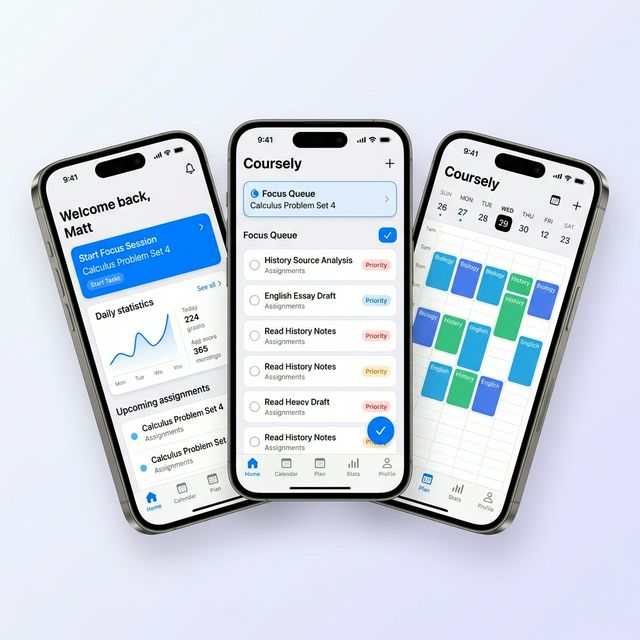
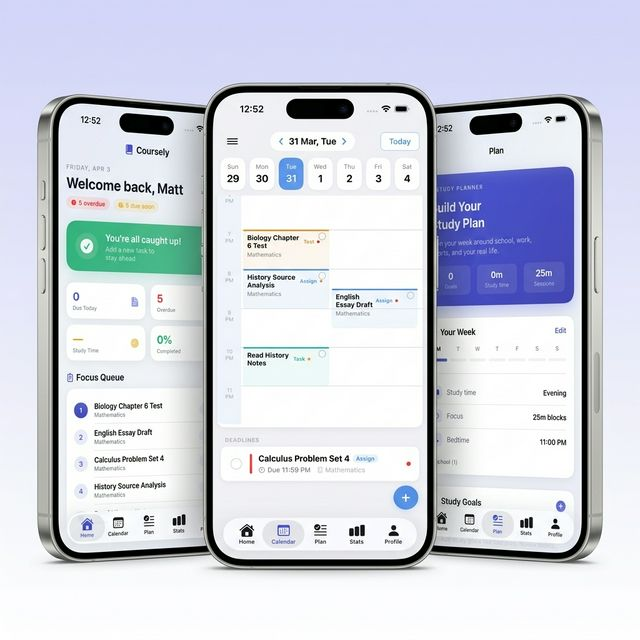
Replace AI images with real app screenshots

diff --git a/index.html b/index.html
@@ -165,21 +165,21 @@
                 </div>
             </div>
 
-            <!-- Feature 3: Grade Calculator -->
+            <!-- Feature 3: Generated Study Plan -->
             <div class="feature-row animate-on-scroll">
                 <div class="feature-text">
                     <div class="feature-number">03</div>
-                    <h3 class="feature-title">Grade Calculator</h3>
-                    <p class="feature-desc">Enter your assignments, quizzes, and exams with their weights. See your current weighted grade instantly and plan what you need to hit your target.</p>
+                    <h3 class="feature-title">Generated Study Plan</h3>
+                    <p class="feature-desc">Coursely builds a day-by-day study schedule based on your goals, deadlines, and available time. See exactly what to study, when, and for how long.</p>
                     <ul class="feature-list">
-                        <li><span class="check">✓</span> Weighted grade calculation</li>
-                        <li><span class="check">✓</span> GPA tracking across courses</li>
-                        <li><span class="check">✓</span> Final grade calculator</li>
-                        <li><span class="check">✓</span> Save and manage grade sheets</li>
+                        <li><span class="check">✓</span> Auto-scheduled study sessions</li>
+                        <li><span class="check">✓</span> Day-by-day breakdown</li>
+                        <li><span class="check">✓</span> Prioritized by deadlines</li>
+                        <li><span class="check">✓</span> Total study time tracking</li>
                     </ul>
                 </div>
                 <div class="feature-image">
-                    <img src="images/feature-grades.png" alt="Coursely grade calculator with GPA and What-If calculator" loading="lazy">
+                    <img src="images/feature-grades.png" alt="Coursely generated study plan with daily scheduled sessions" loading="lazy">
                 </div>
             </div>
         </div>
